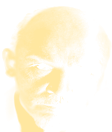
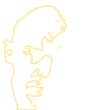
Outline Lenin + louder hard-mode anthem

diff --git a/index.html b/index.html
@@ -209,7 +209,12 @@ const countdown = new Audio("countdown.m4a"); countdown.preload = "auto"; countd
 const ww3Audio = new Audio("ww3_boom.m4a"); ww3Audio.preload = "auto"; ww3Audio.volume = 1;   // nuclear blast for WW3 (clip already begins at the 10s mark); everything else goes silent
 ww3Audio.addEventListener("ended", () => { if (masterGain && audio) masterGain.gain.setTargetAtTime(0.6, audio.currentTime, 0.4); });
 // HARD-mode Red Square fanfare: the 21:22->end Internationale clip (replaces the Soviet anthem on a hard win only)
-const internAudio = new Audio("internationale.m4a"); internAudio.preload = "auto"; internAudio.volume = 0.92;
+const internAudio = new Audio("internationale.m4a"); internAudio.preload = "auto"; internAudio.volume = 1;
+let internBoosted = false;
+function boostIntern() {   // route the hard-mode Internationale through a Web-Audio gain so it can play LOUD (past 1.0)
+  if (internBoosted || !audioReady || !audio) return;
+  try { const src = audio.createMediaElementSource(internAudio); const g = audio.createGain(); g.gain.value = 2.2; src.connect(g); g.connect(audio.destination); internBoosted = true; } catch (e) {}
+}
 // cash-register "cha-ching" for the SF payout
 const cashAudio = new Audio("cash_register.mp3"); cashAudio.volume = 0.9; cashAudio.preload = "auto";
 // honor-cannon report (pool)
@@ -3292,7 +3297,7 @@ function landCity(city) {
     if (musicMode === 2) playSsbSynth();   // synthesized Star-Spangled Banner
     else { usAnthem.muted = muted; try { usAnthem.currentTime = 5; } catch (e) {} usAnthem.play().catch(() => {}); }   // skip the 5s intro
   }
-  else if (difficulty === "hard") { internAudio.muted = muted; try { internAudio.currentTime = 0; } catch (e) {} internAudio.play().catch(() => {}); }   // hard-mode Red Square: the Internationale
+  else if (difficulty === "hard") { boostIntern(); internAudio.muted = muted; try { internAudio.currentTime = 0; } catch (e) {} internAudio.play().catch(() => {}); }   // hard-mode Red Square: the Internationale (boosted loud)
   else { anthem.muted = muted; try { anthem.currentTime = 0; } catch (e) {} anthem.play().catch(() => {}); }
   [659, 784, 988, 1319].forEach((f, i) => setTimeout(() => beep(f, 0.22, 0.24, "triangle"), i * 150));
 }